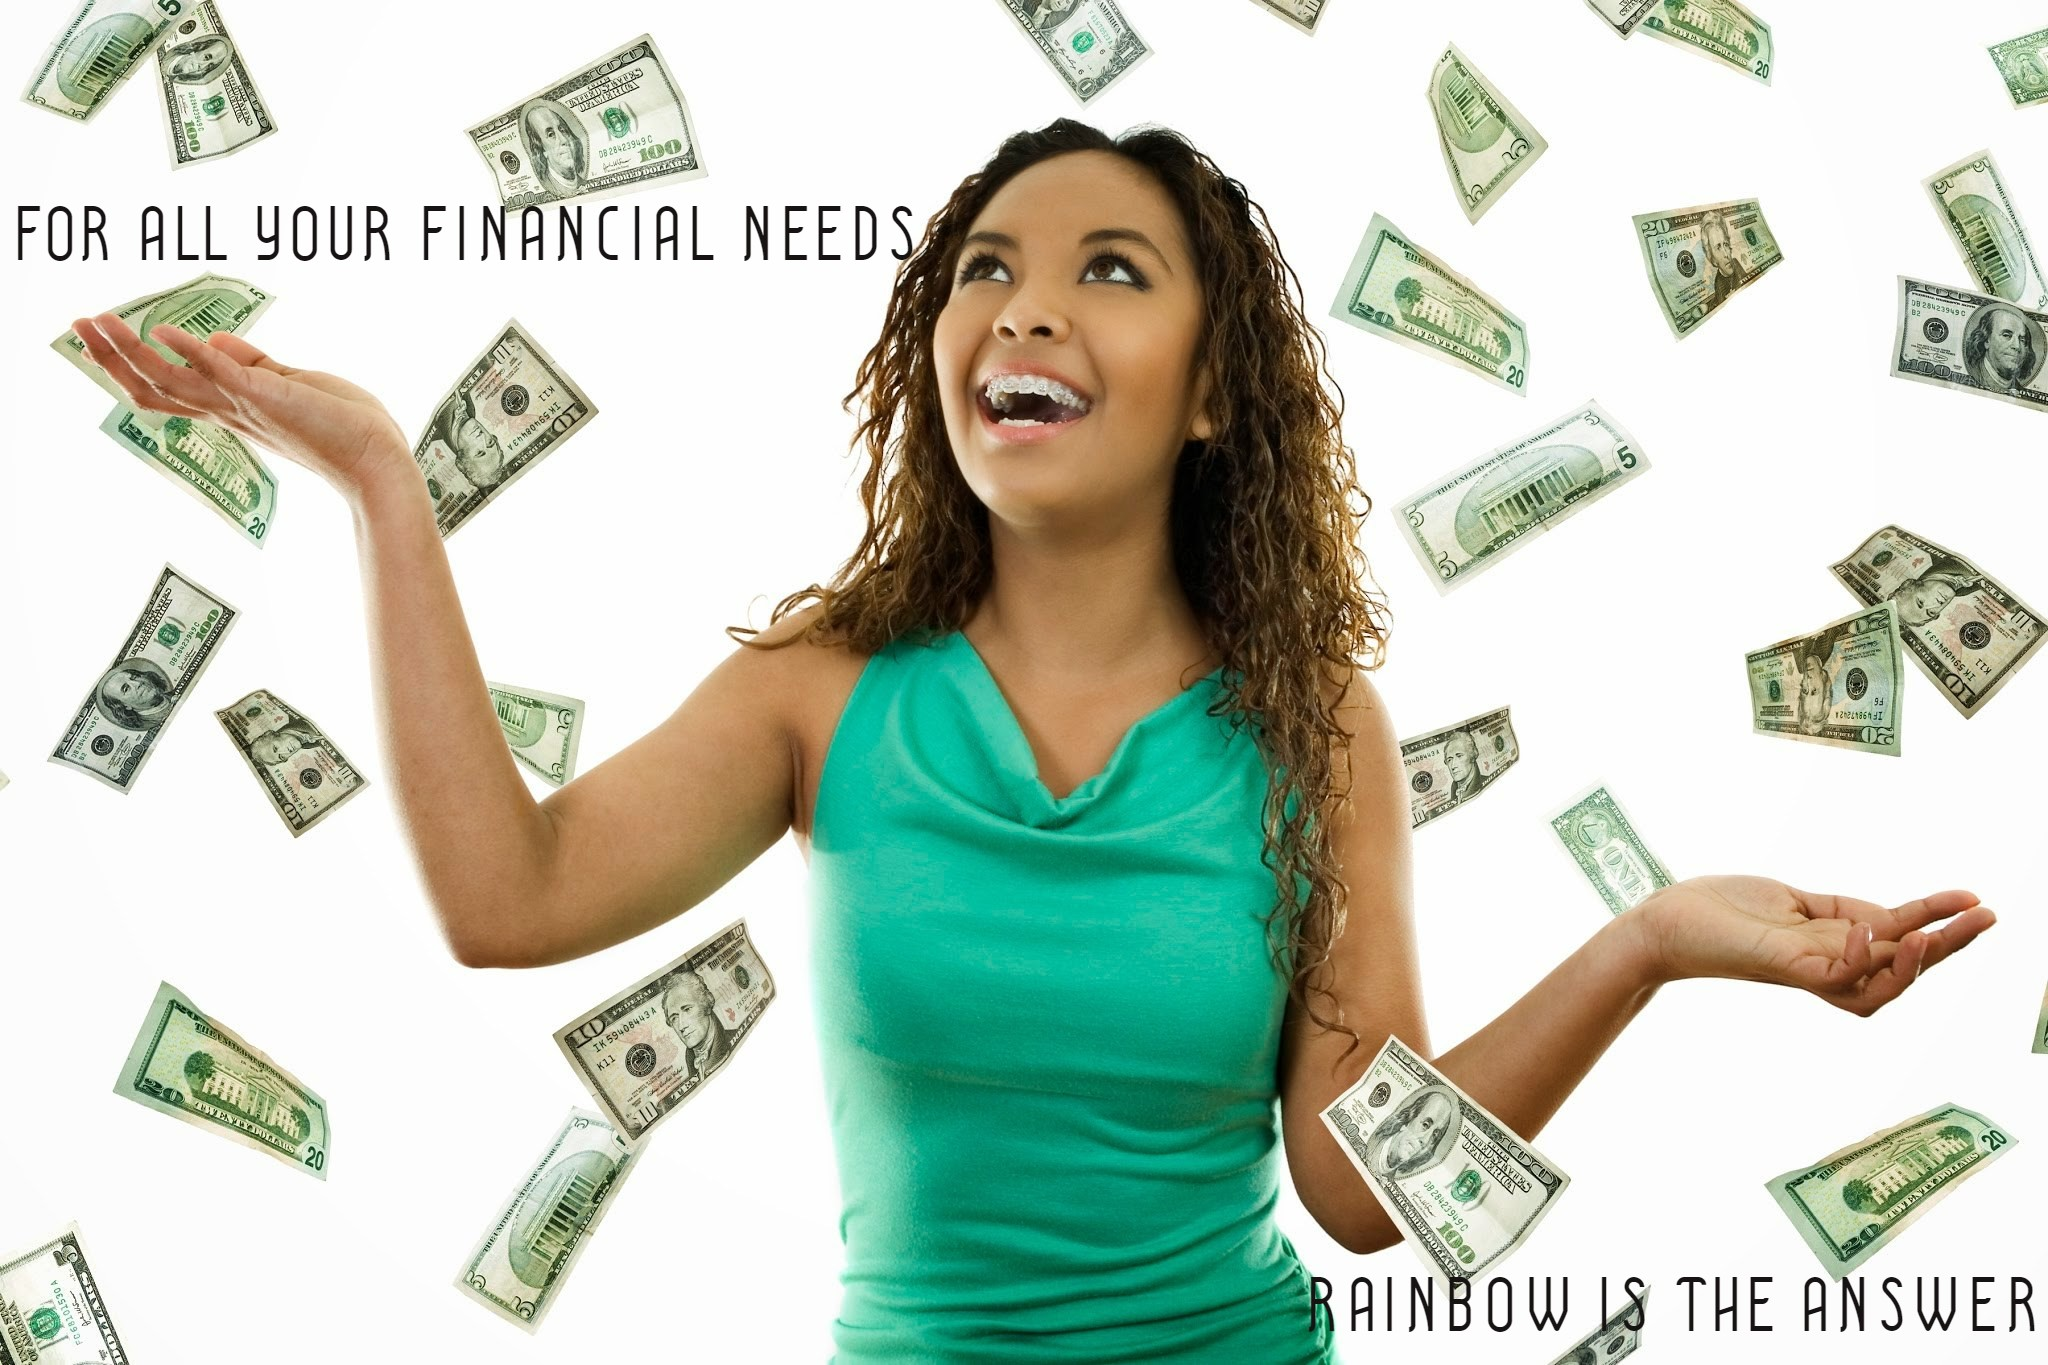
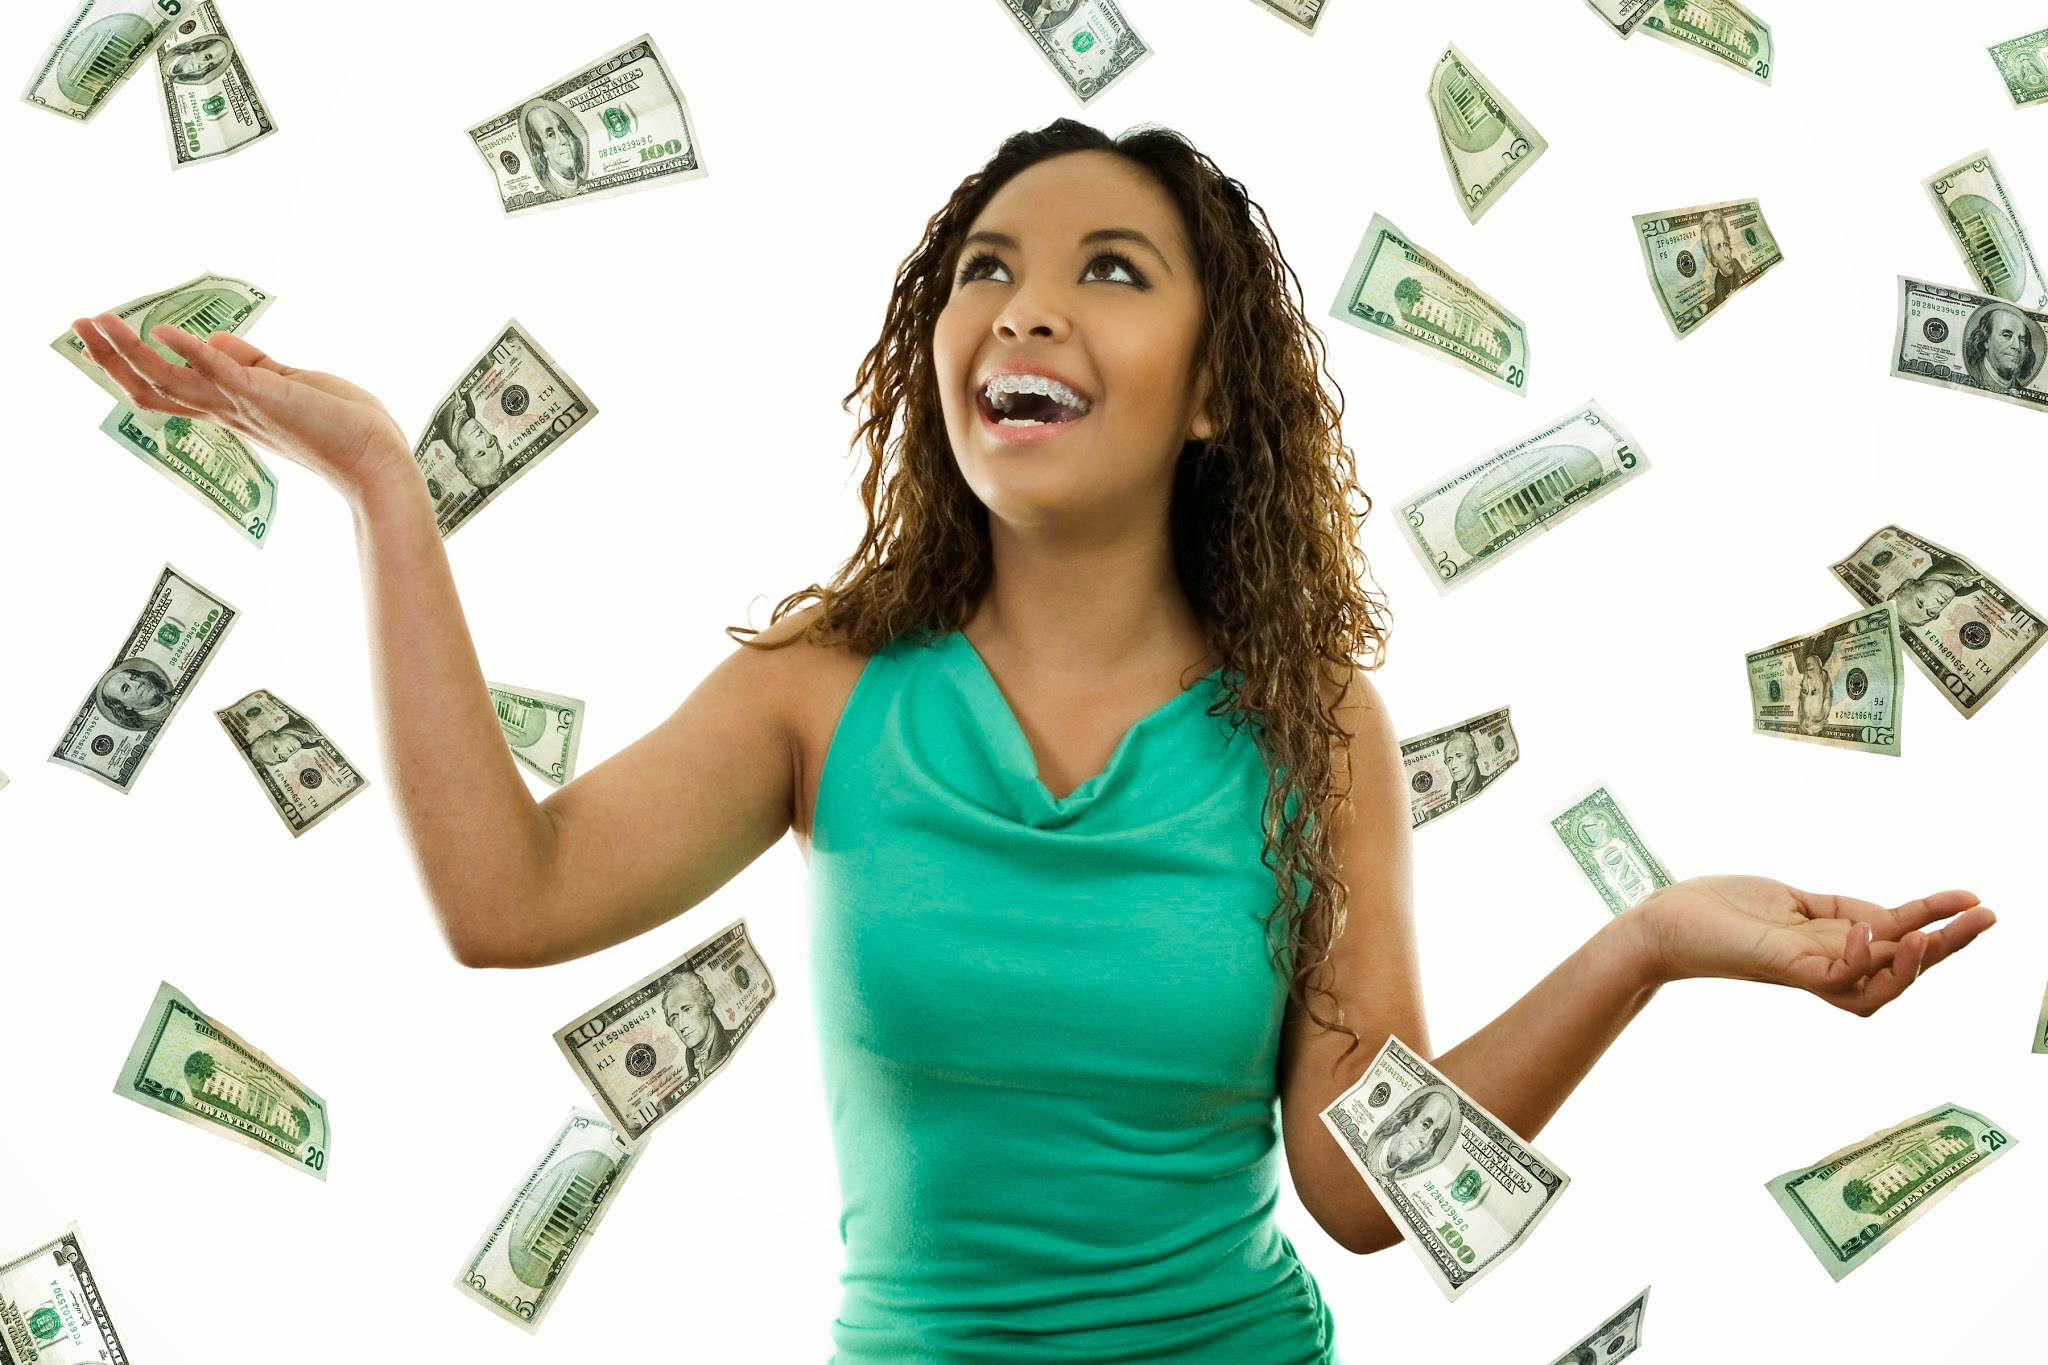
introducing new image for slider

Changed region(s): [[0.625, 0.9231, 1.0, 0.9846], [0.125, 0.1538, 0.4375, 0.1846], [0.0, 0.1538, 0.0938, 0.1846]]

diff --git a/rainbow/src/main/resources/templates/autoSliderHomePage.html b/rainbow/src/main/resources/templates/autoSliderHomePage.html
@@ -23,6 +23,14 @@
 				style="height: 580px; width: 100%;">
 		</div>
 		<div>
+			<img src="img/needQuickFinance.jpg" alt="Rainbow Capitals"
+				style="height: 580px; width: 100%;">
+		</div>
+		<div>
+			<img src="img/RainbowIsHere.jpg" alt="Rainbow Capitals"
+				style="height: 580px; width: 100%;">
+		</div>
+		<div>
 			<img src="img/6.jpg" alt="Rainbow Capitals"
 				style="height: 580px; width: 100%;">
 		</div>
